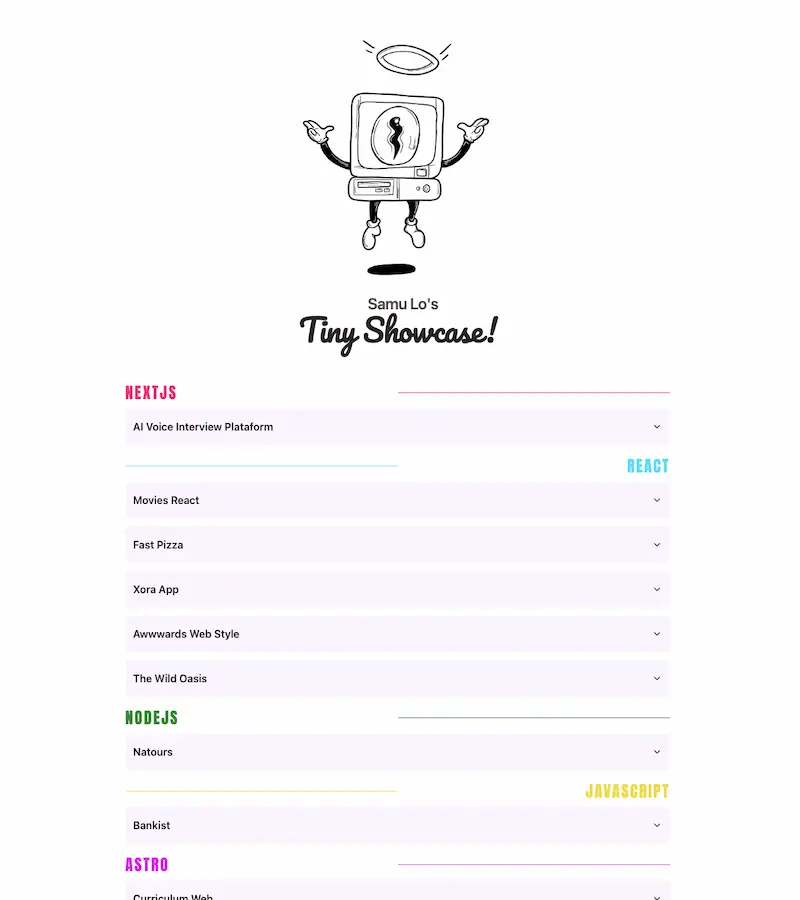
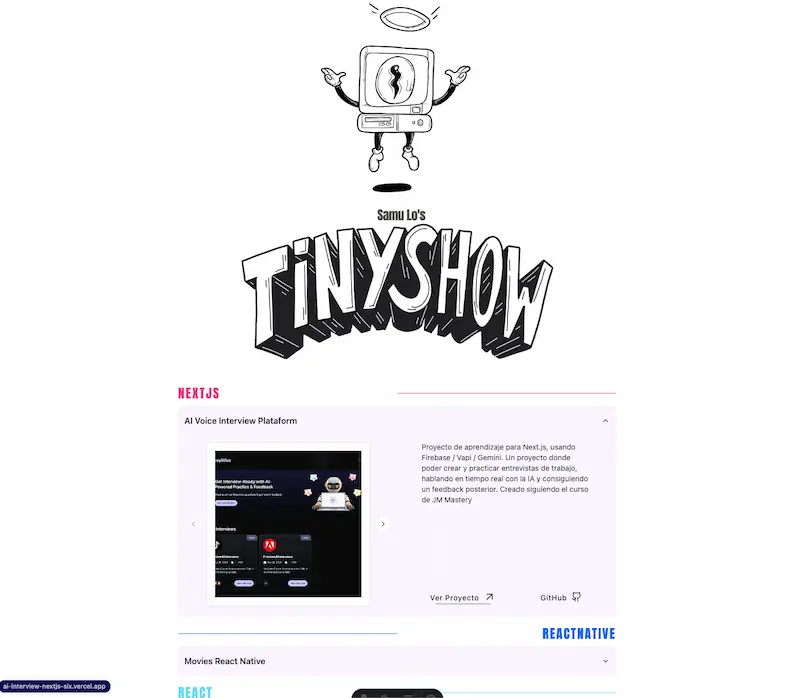
new-header + name

diff --git a/README.md b/README.md
@@ -1,13 +1,13 @@
 <div align="center">
 
 <h2>
-    <em>Tiny Showcase</em>, un pequeño mostrador de proyectos.
+    <em>Tiny Show</em>, un pequeño mostrador de proyectos.
 </h2>
 <p>
 Creado con Astro para solo tener que actualizar el <em>projects.json</em>.
 </p>
 
-<strong><a href="https://tiny-showcase.vercel.app/">LINK</a></strong>
+<strong><a href="https://tiny-Show.vercel.app/">LINK</a></strong>
 
 </div>
 
@@ -40,7 +40,7 @@ Creado con Astro para solo tener que actualizar el <em>projects.json</em>.
 
 ## Empezar
 
-### 1. Usa este [repo](https://github.com/samuhlo/tiny-showcase) como _template_ de un proyecto de Astro
+### 1. Usa este [repo](https://github.com/samuhlo/tiny-Show) como _template_ de un proyecto de Astro
 
 - Usa [pnpm](https://pnpm.io/installation) como gestor de dependencias y empaquetador.
 
@@ -50,7 +50,7 @@ corepack enable
 corepack prepare pnpm@latest --activate
 
 # Inicializa el proyecto
-pnpm create astro@latest -- --template samU13/tiny-showcase
+pnpm create astro@latest -- --template samU13/tiny-Show
 ```
 
 ### 2. Añade tu contenido:
